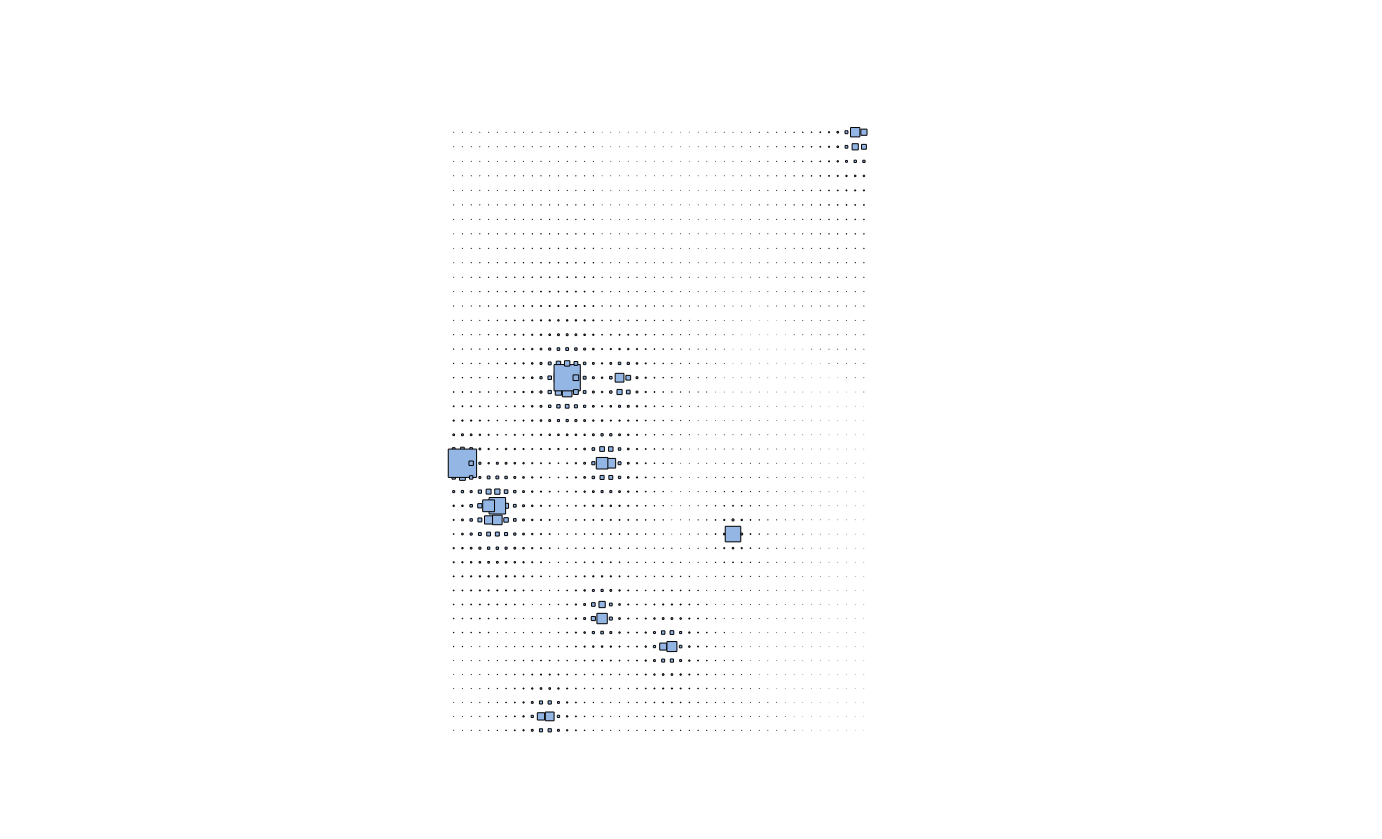
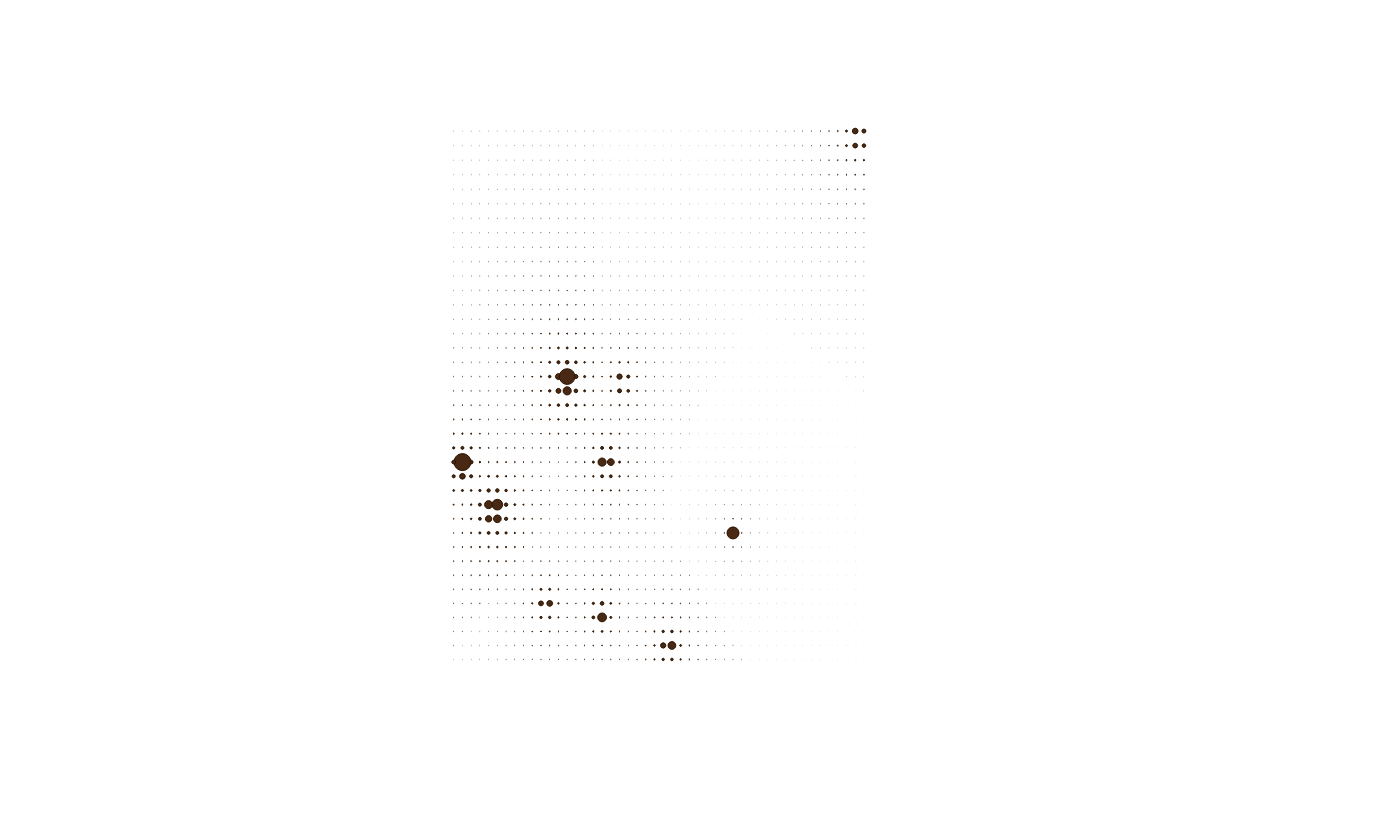
Add qgis example in readme

diff --git a/README.md b/README.md
@@ -46,7 +46,10 @@ Generated grid :
 
 ![Grid of the population in the biggest city of Netherlands](https://github.com/agatheblues/r-resample-geodata-to-grid/blob/master/example/nl_map_grid.png)
 
+Plotted in QGIS :
+
+![Grid of the population in the biggest city of Netherlands plotted in qgis](https://github.com/agatheblues/r-resample-geodata-to-grid/blob/master/example/nl_map_grid_qgis.png)
 
 ## Limitations
-- The generated grid does not follow country borders, it's a rectangular grid. So there are data points 'in the sea' or out of the country borders.
+- The generated grid does not follow country borders, it's a rectangular grid. So there are data points 'in the sea' or out of the country borders. 
 - I tested this on small datasets (~600 records) or small regions (~city size).
